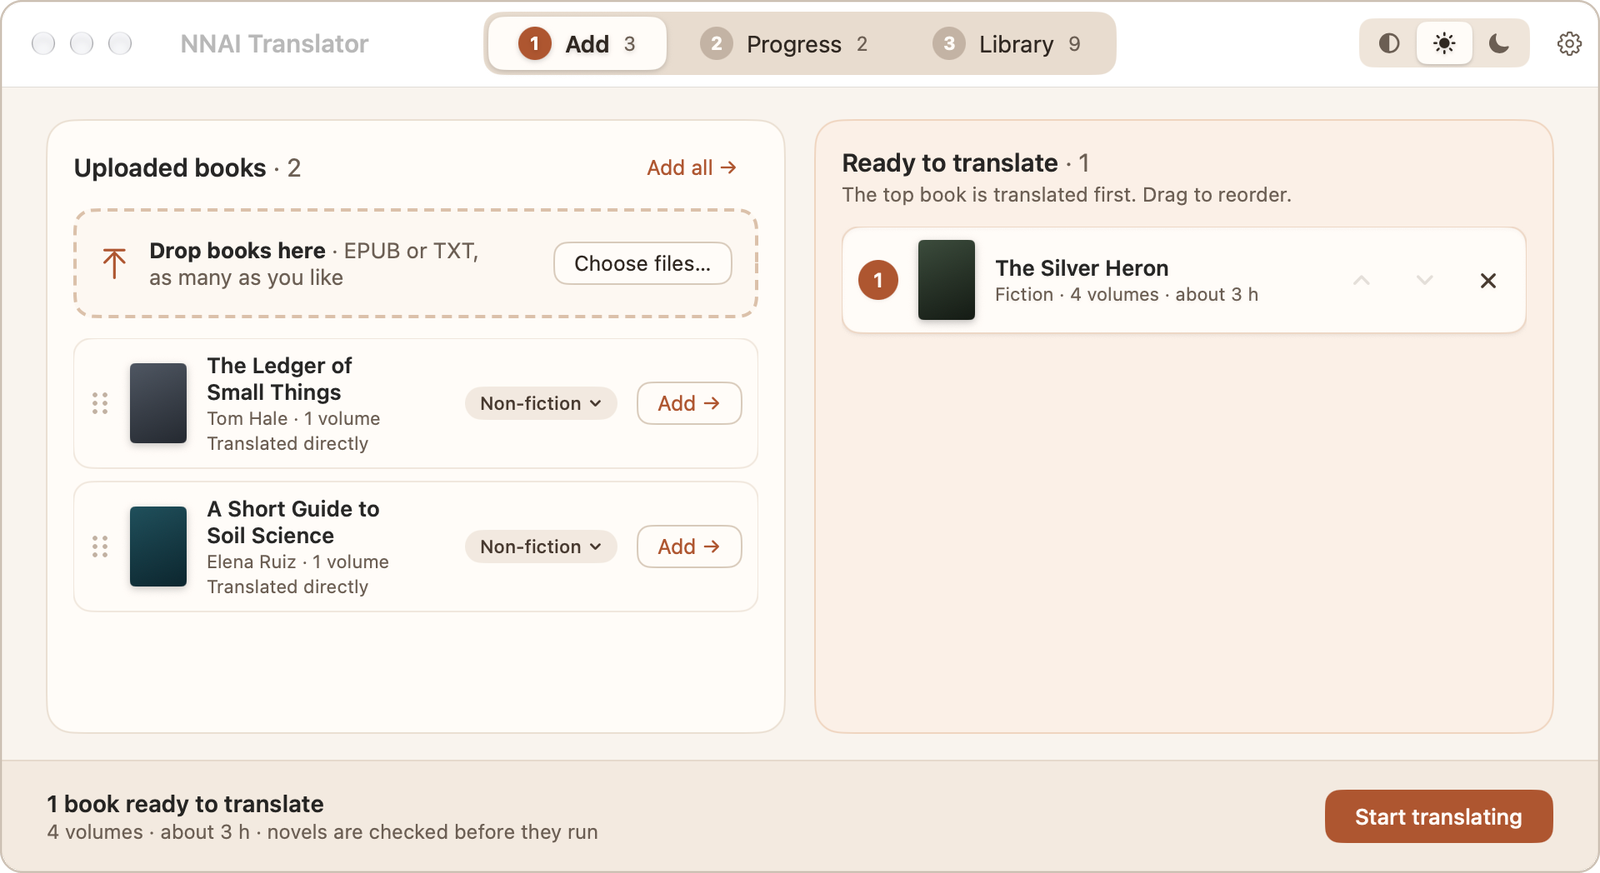
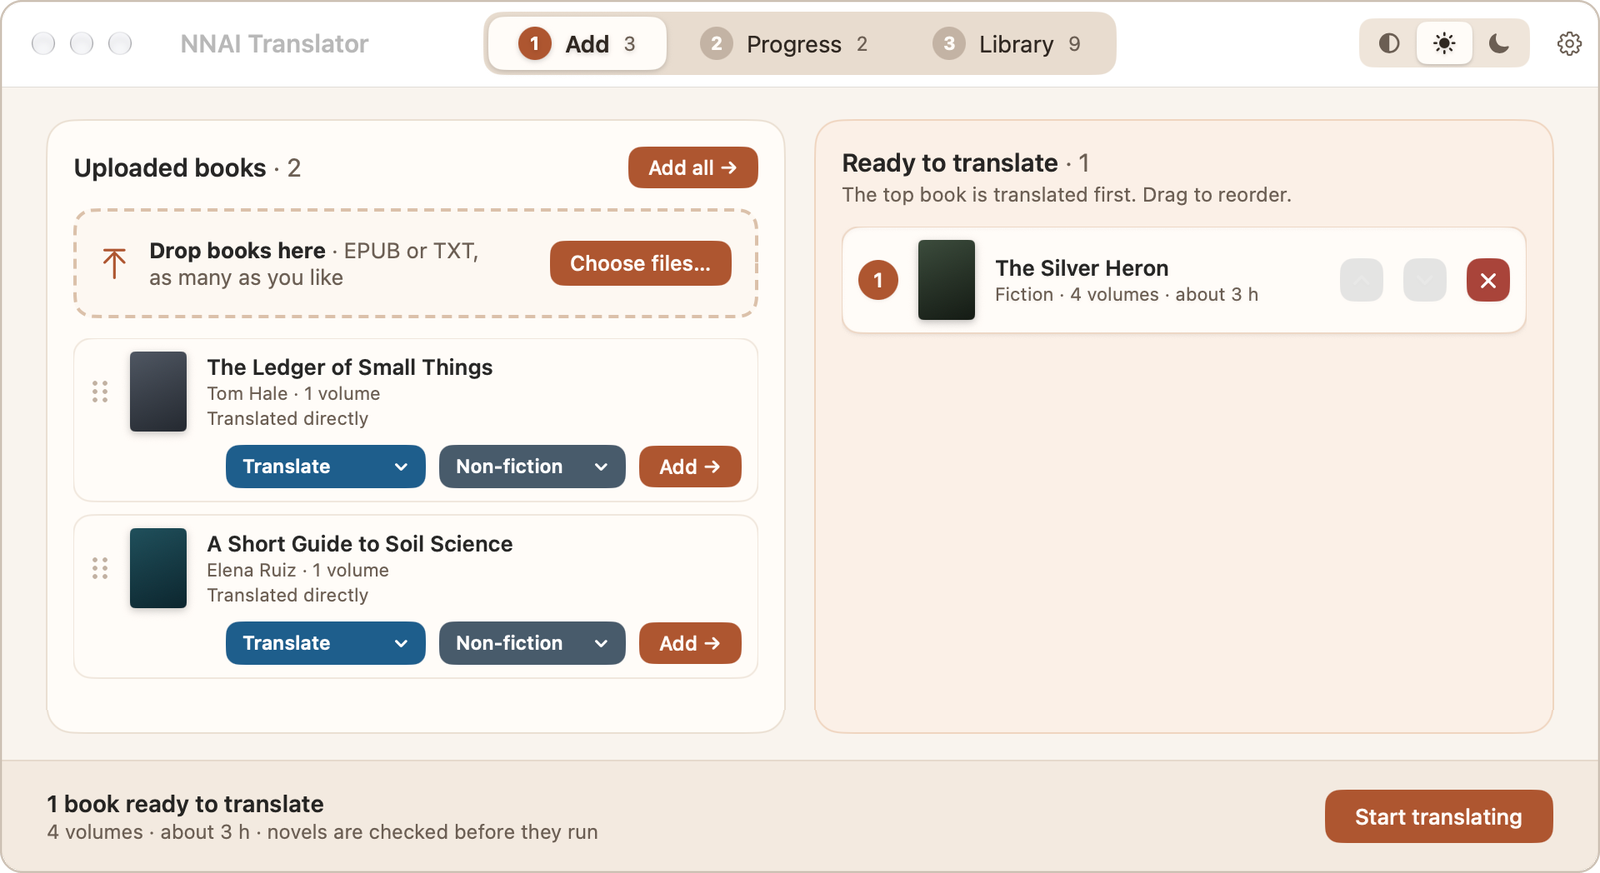
Release 1.0.12: version bump, release notes and new README pictures
The type menu is wide enough for "Non-fiction".

diff --git a/app/BookTranslator/Sources/Loc.swift b/app/BookTranslator/Sources/Loc.swift
@@ -544,8 +544,8 @@ final class Loc {
         "about.version": ("Version %@ (%@)", "Versi %@ (%@)"),
         "about.hood.title": ("Under the hood", "Di balik layar"),
         "about.hood.1": ("The translation engine is built into the app. Only its Python libraries are installed, once, on first launch, into ~/Library/Application Support/NNAI Translator.", "Mesin penerjemah sudah ada di dalam aplikasi. Hanya pustaka Python-nya yang dipasang sekali saat pertama dibuka, ke ~/Library/Application Support/NNAI Translator."),
-        "about.hood.2": ("The app finds which of Claude, Codex and Antigravity are installed and signed in. The first one works, the others take over when it hits a quota or fails. Claude runs at Sonnet at most; Opus is never used.", "Aplikasi mencari sendiri mana yang terpasang dan sudah masuk dari Claude, Codex, dan Antigravity. Yang pertama bekerja, yang lain menggantikan saat kuotanya habis atau gagal. Claude dipakai paling tinggi Sonnet; Opus tidak pernah dipakai."),
-        "about.hood.3": ("Fiction gets a glossary of names, places and terms before translating, a writing style recommended from the text, and a polish pass afterwards.", "Fiksi mendapat glosarium nama, tempat, dan istilah sebelum diterjemahkan, gaya tulis yang disarankan dari isi buku, dan tahap penghalusan sesudahnya."),
+        "about.hood.2": ("The app finds which of Claude, Codex and Antigravity are installed and signed in. The first one works, the others take over when it hits a quota or fails and are shown how the book is written so far (or the book waits: your choice in Settings). Claude runs at Sonnet at most; Opus is never used.", "Aplikasi mencari sendiri mana yang terpasang dan sudah masuk dari Claude, Codex, dan Antigravity. Yang pertama bekerja, yang lain menggantikan saat kuotanya habis atau gagal dan diberi contoh tulisan buku sejauh ini (atau bukunya menunggu: pilihan Anda di Pengaturan). Claude dipakai paling tinggi Sonnet; Opus tidak pernah dipakai."),
+        "about.hood.3": ("Fiction gets a glossary of names, places and terms before translating, a writing style recommended from the text, and a polish pass afterwards. An EPUB that is already translated can be polished only.", "Fiksi mendapat glosarium nama, tempat, dan istilah sebelum diterjemahkan, gaya tulisan yang disarankan dari isi teks, dan tahap penghalusan sesudahnya. EPUB yang sudah diterjemahkan bisa diperhalus saja."),
         "about.hood.4": ("Boilerplate pages (licence headers, donation appeals, download-site credits) are removed instead of translated, and every translated page is checked against its source. Doubtful names are listed in the quality report; the text is never changed automatically.", "Halaman boilerplate (kepala lisensi, ajakan donasi, kredit situs unduhan) dibuang, bukan diterjemahkan, dan setiap halaman terjemahan diperiksa terhadap aslinya. Nama yang meragukan dicatat di laporan kualitas; teks tidak pernah diubah otomatis."),
         "about.hood.5": ("The same engine runs from the command line: translate_book.py with --detect, --inspect, --set-metadata, --style, --redo and --refresh-metadata. See docs/BOOK_AGENT.md in the repository.", "Mesin yang sama bisa dijalankan dari command line: translate_book.py dengan --detect, --inspect, --set-metadata, --style, --redo, dan --refresh-metadata. Lihat docs/BOOK_AGENT.md di repositori."),
         "about.limits.title": ("Known limits", "Batasan yang diketahui"),

diff --git a/app/BookTranslator/Sources/InputView.swift b/app/BookTranslator/Sources/InputView.swift
@@ -252,7 +252,7 @@ private struct UploadedRow: View {
             }
             RowMenu(items: [BookKind.fiction, .nonfiction].map { ($0, loc.t($0.key)) },
                     selection: Binding(get: { book.kind }, set: { if $0 != book.kind { model.toggleKind(book.id) } }),
-                    fill: book.kind == .fiction ? Theme.actionFiction : Theme.actionNonfiction, width: 92)
+                    fill: book.kind == .fiction ? Theme.actionFiction : Theme.actionNonfiction, width: 112)
                 .help(loc.t("input.kindHelp"))
             Button(loc.t("input.prepare")) { model.makeReady(book.id) }
                 .buttonStyle(PrimaryButtonStyle(radius: 8, vertical: 5, horizontal: 12, size: 12)).fixedSize()

diff --git a/app/BookTranslator/Tools/frame_screenshots.py b/app/BookTranslator/Tools/frame_screenshots.py
@@ -16,7 +16,7 @@ from PIL import Image, ImageCms, ImageDraw
 WIDTH = 1600
 OUTLINE = (205, 193, 180)
 #: Rows of the resized picture where the window is empty, as (first, last) to cut out.
-EMPTY_ROWS = {"add-books": (660, 940), "progress": (773, None)}
+EMPTY_ROWS = {"add-books": (710, 990), "progress": (773, None)}
 
 
 def to_srgb(image):

diff --git a/docs/RELEASE_NOTES_1.0.12.md b/docs/RELEASE_NOTES_1.0.12.md
@@ -1,0 +1,50 @@
+# NNAI Translator 1.0.12
+
+Polish a book that is already translated, keep one voice when the engines take turns, and mend two
+layout faults.
+
+## New: polish only
+
+- An EPUB that is already in your language can be **polished without being translated**: choose
+  **Polish only** on the book. It is recognised and chosen for you when the book is in the target
+  language.
+- You pick the writing style; the book's own pronouns are kept. Your file is not changed: the result
+  is a new file in the library, checked against your file.
+- One EPUB at a time. Without the original, a wrong translation cannot be found.
+
+## New: one voice for a book
+
+- A book has a main engine. When another takes over, it is shown a short sample of how the book is
+  written so far. This brings them closer; it cannot make them identical.
+- **Settings > When a usage limit is reached**: *Switch tools* (as before) or *Wait*, where one tool
+  writes the whole book and the app tries again every 20 minutes.
+- The final check lists pages whose quotation marks or *kau*/*kamu* differ from the rest.
+
+## Layout
+
+- A fix for **paragraphs cut in the middle of a sentence** when a model loses the layout markers.
+- Contents entries such as *Cover*, *Title Page* and *Copyright* are written in Indonesian.
+- A book translated earlier can be mended with **Mend** on its page, without using any quota. The old
+  file is kept.
+- Adding a book warns you when the source file is damaged, scanned or badly broken.
+
+## Other changes
+
+- Translate or polish, and fiction or not, are drop-downs; the buttons on the first screen stand out.
+- **Fixed:** an e-book with an empty cover page could end a polish pass as unfinished.
+- **Fixed:** a usage limit during the preparation now stops and waits, instead of keeping a poorer
+  glossary or style.
+
+## Install
+
+Download `NNAI-Translator-1.0.12.dmg`, open it and drag the app to Applications (replace the old copy). Quit the
+old app first so it can stop its engine cleanly; the queue resumes when you open the new one, unless you had
+paused it. Your settings, library and the Python libraries installed on first launch are kept.
+`NNAI-Translator-1.0.12.zip` holds the same app and is what the in-app updater downloads.
+
+A book polished or checked with this version should not be translated again with an older one.
+
+## Please buy the books
+
+This tool only helps you read a book you legitimately own in a language you understand. Buy the official
+edition, and the official translation when there is one. Do not share or sell the translations it makes.
